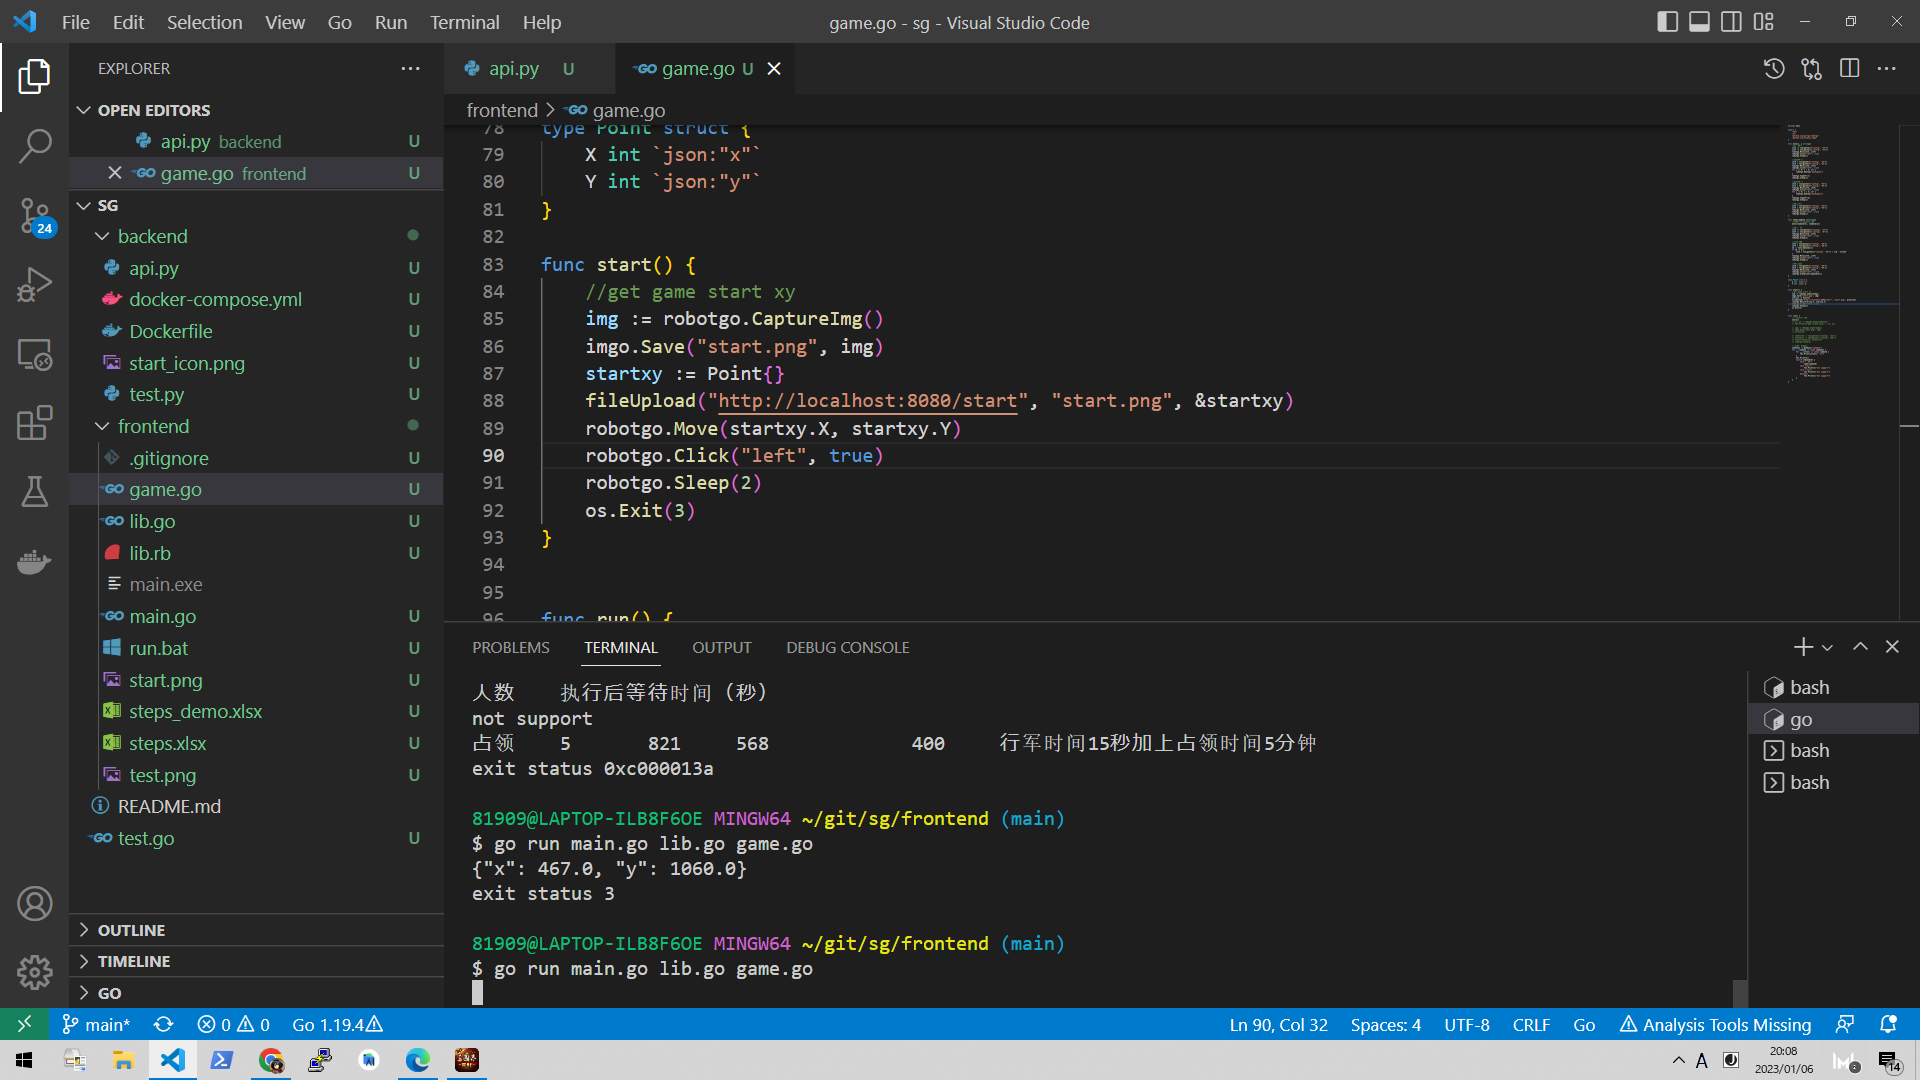
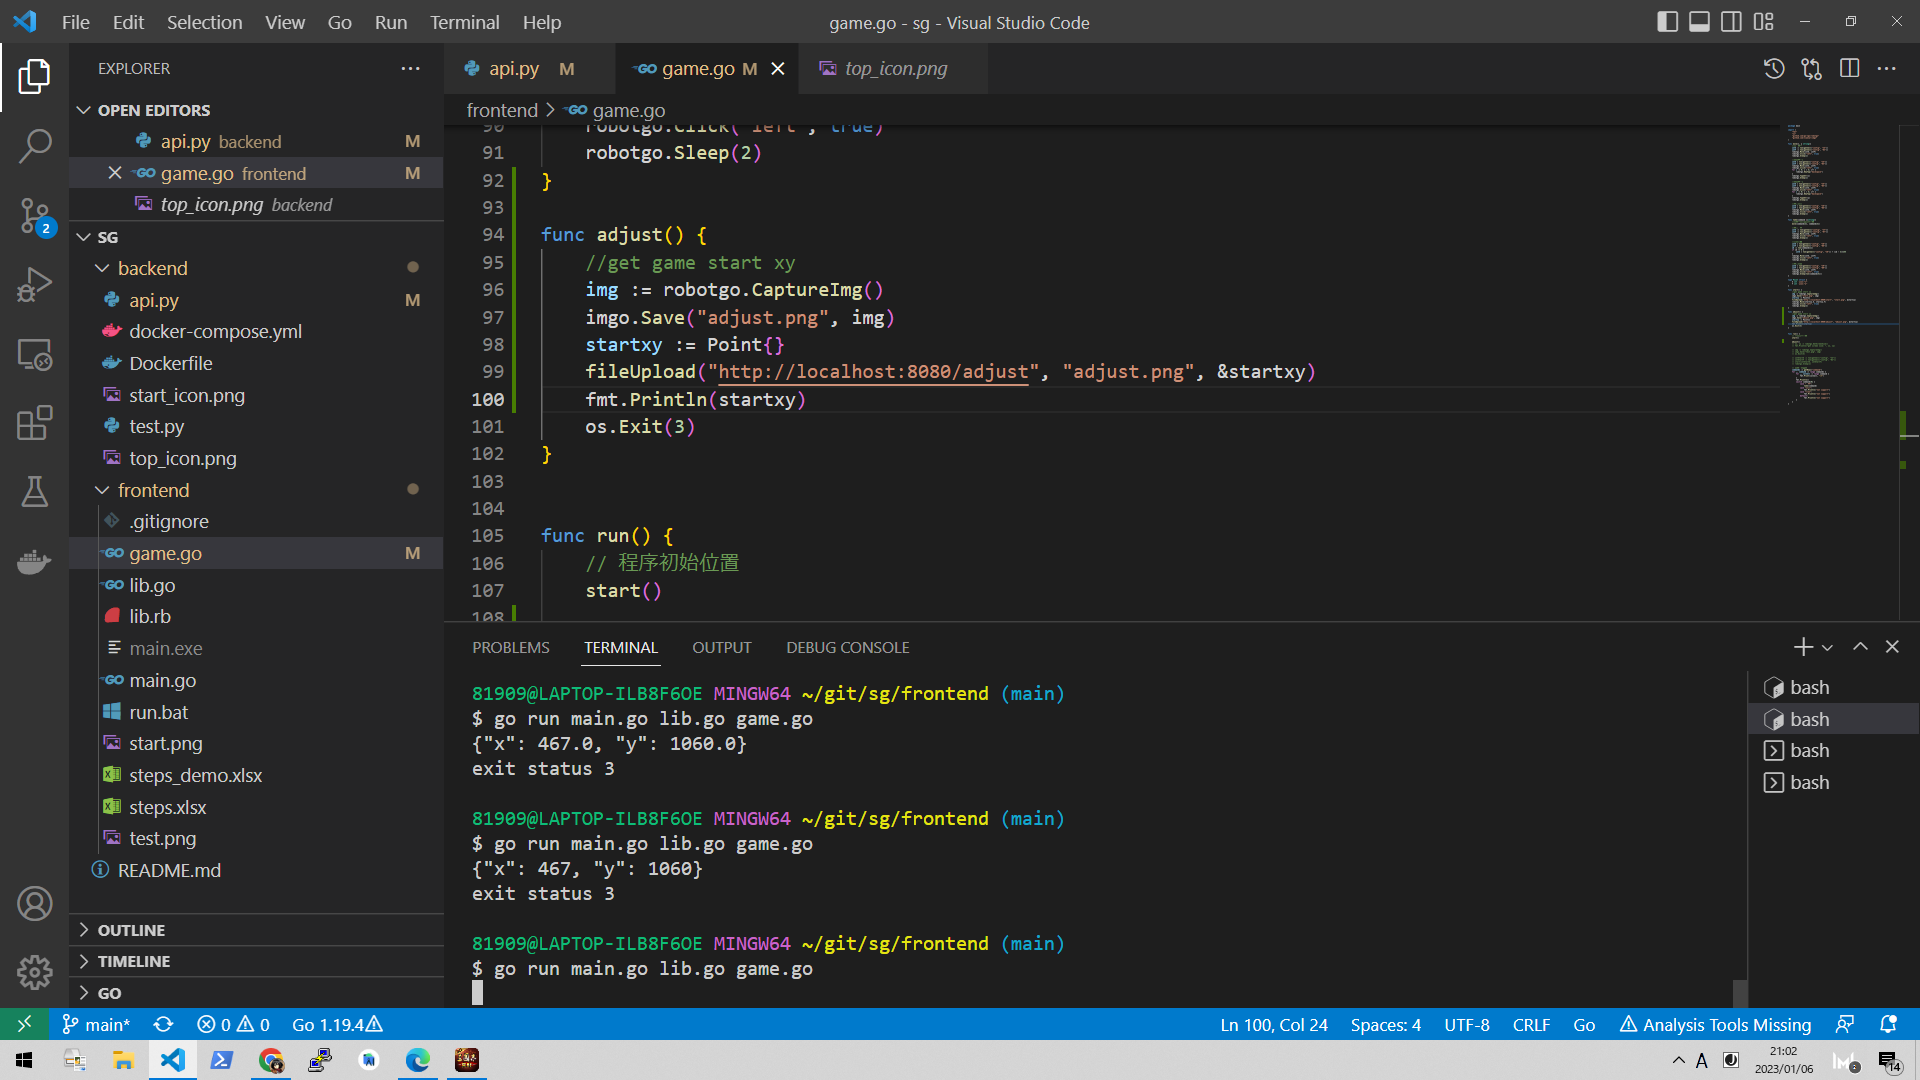
fix

diff --git a/backend/api.py b/backend/api.py
@@ -16,15 +16,24 @@ def version():
     return '0.1'
 
 @route('/start' , method='POST')
-def upload():
+def start():
     image = request.files.get('file')
     save_path = os.path.join('/tmp/', time.strftime("%Y%m%d-%H%M%S-") + image.filename)
     image.save(save_path)
-    point = findImage(save_path, 'start_icon.png')
+    point = findImage(save_path, 'start_icon.png', True)
     response.content_type = 'application/json'
     return json.dumps({ "x": point[0], "y": point[1] })
 
-def findImage(bigImage, smallImage):
+@route('/adjust' , method='POST')
+def adjust():
+    image = request.files.get('file')
+    save_path = os.path.join('/tmp/', time.strftime("%Y%m%d-%H%M%S-") + image.filename)
+    image.save(save_path)
+    point = findImage(save_path, 'top_icon.png', False)
+    response.content_type = 'application/json'
+    return json.dumps({ "x": point[0], "y": point[1] })
+
+def findImage(bigImage, smallImage, padding):
     image= cv2.imread(bigImage)
     gray= cv2.cvtColor(image, cv2.COLOR_BGR2GRAY)
     template= cv2.imread(smallImage, 0)
@@ -32,7 +41,8 @@ def findImage(bigImage, smallImage):
     min_val, max_val, min_loc, max_loc= cv2.minMaxLoc(result)
     height, width= template.shape[:2]
     top_left = max_loc
-    mid = (top_left[0] + math.ceil(width/2), top_left[1] + math.ceil(height/2))
-    return mid
+    if padding:
+        return (top_left[0] + math.ceil(width/2), top_left[1] + math.ceil(height/2))
+    return top_left
 
 run(host='0.0.0.0', port=8080)

diff --git a/frontend/game.go b/frontend/game.go
@@ -7,6 +7,9 @@ import (
     "github.com/vcaesar/imgo"
 )
 
+var pad_x int
+var pad_y int
+
 func move(x, y string){
     //打开地图
     intX := toI(getCell("config", "C3"))
@@ -89,24 +92,25 @@ func start() {
     robotgo.Move(startxy.X, startxy.Y)
     robotgo.Click("left", true)
     robotgo.Sleep(2)
-    os.Exit(3)
+}
+
+func adjust() {
+    //get game start xy
+    img := robotgo.CaptureImg()
+    imgo.Save("adjust.png", img)
+    adjustxy := Point{}
+    fileUpload("http://localhost:8080/adjust", "adjust.png", &adjustxy)
+    fmt.Println(adjustxy)
+    pad_x = adjustxy.X
+    pad_y = adjustxy.Y
 }
 
 
 func run() {
     // 程序初始位置
     start()
-    // sx, sy := robotgo.GetScreenSize()
-    // fmt.Println("get screen size: ", sx, sy)
-
-    // img := robotgo.CaptureImg()
-    // imgo.Save("test.png", img)
-    // os.Exit(3)
-    
-    // intStartX := toI(getCell("config", "C2"))
-    // intStartY := toI(getCell("config", "D2"))
-    // start(intStartX, intStartY)
-    // robotgo.Sleep(1)
+    adjust()
+    os.Exit(3)
 
     // 获取所有指令
     commands := getRows("command")
